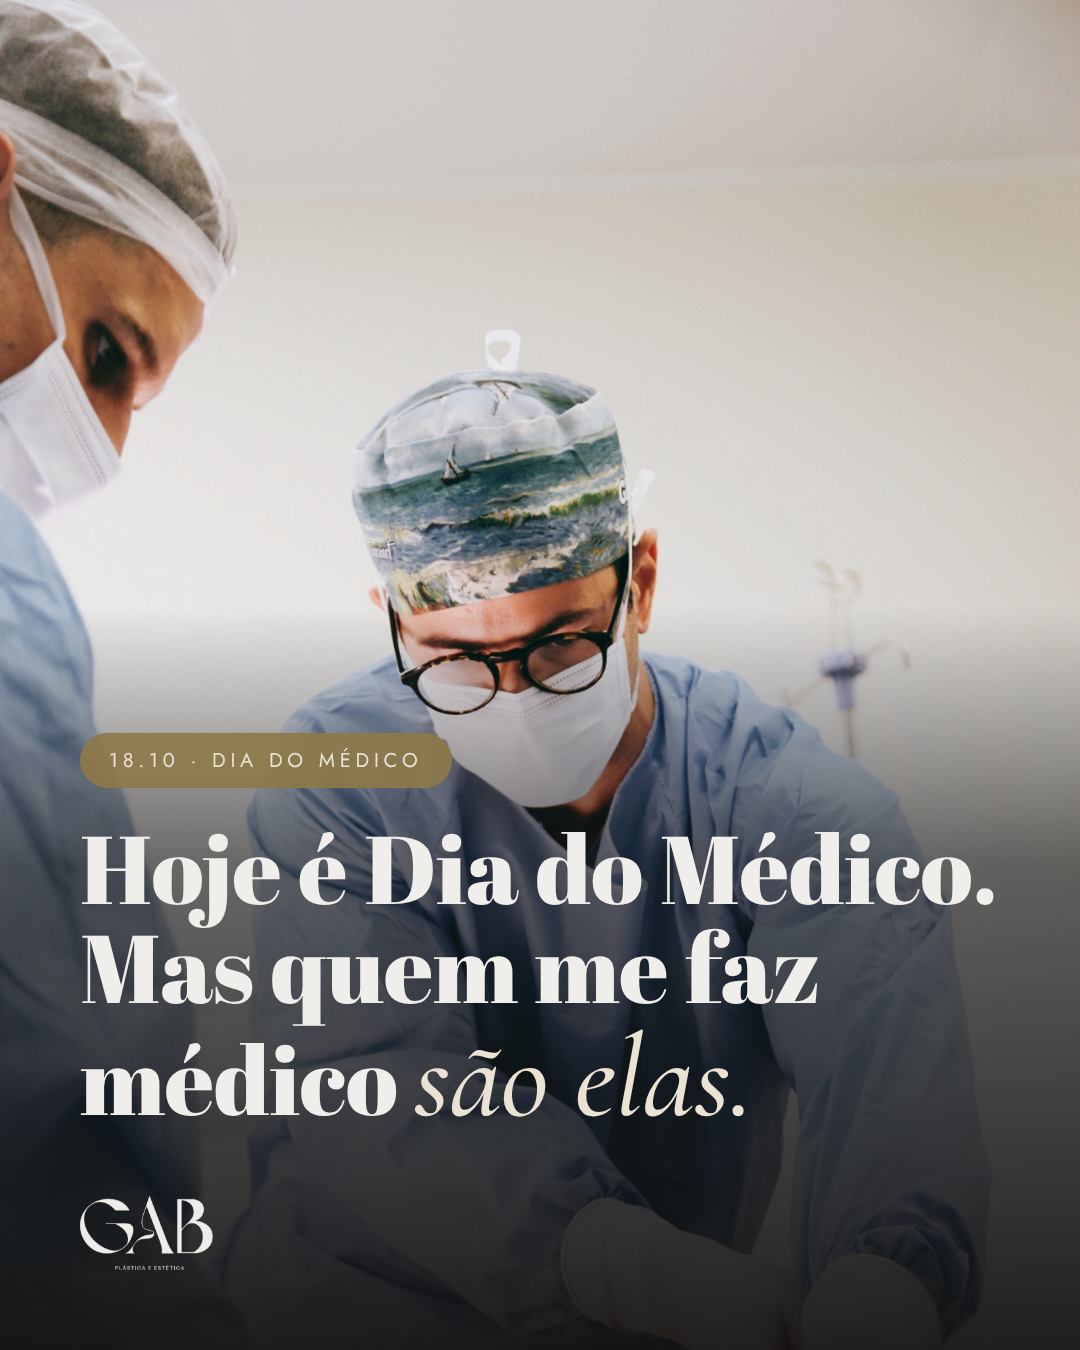
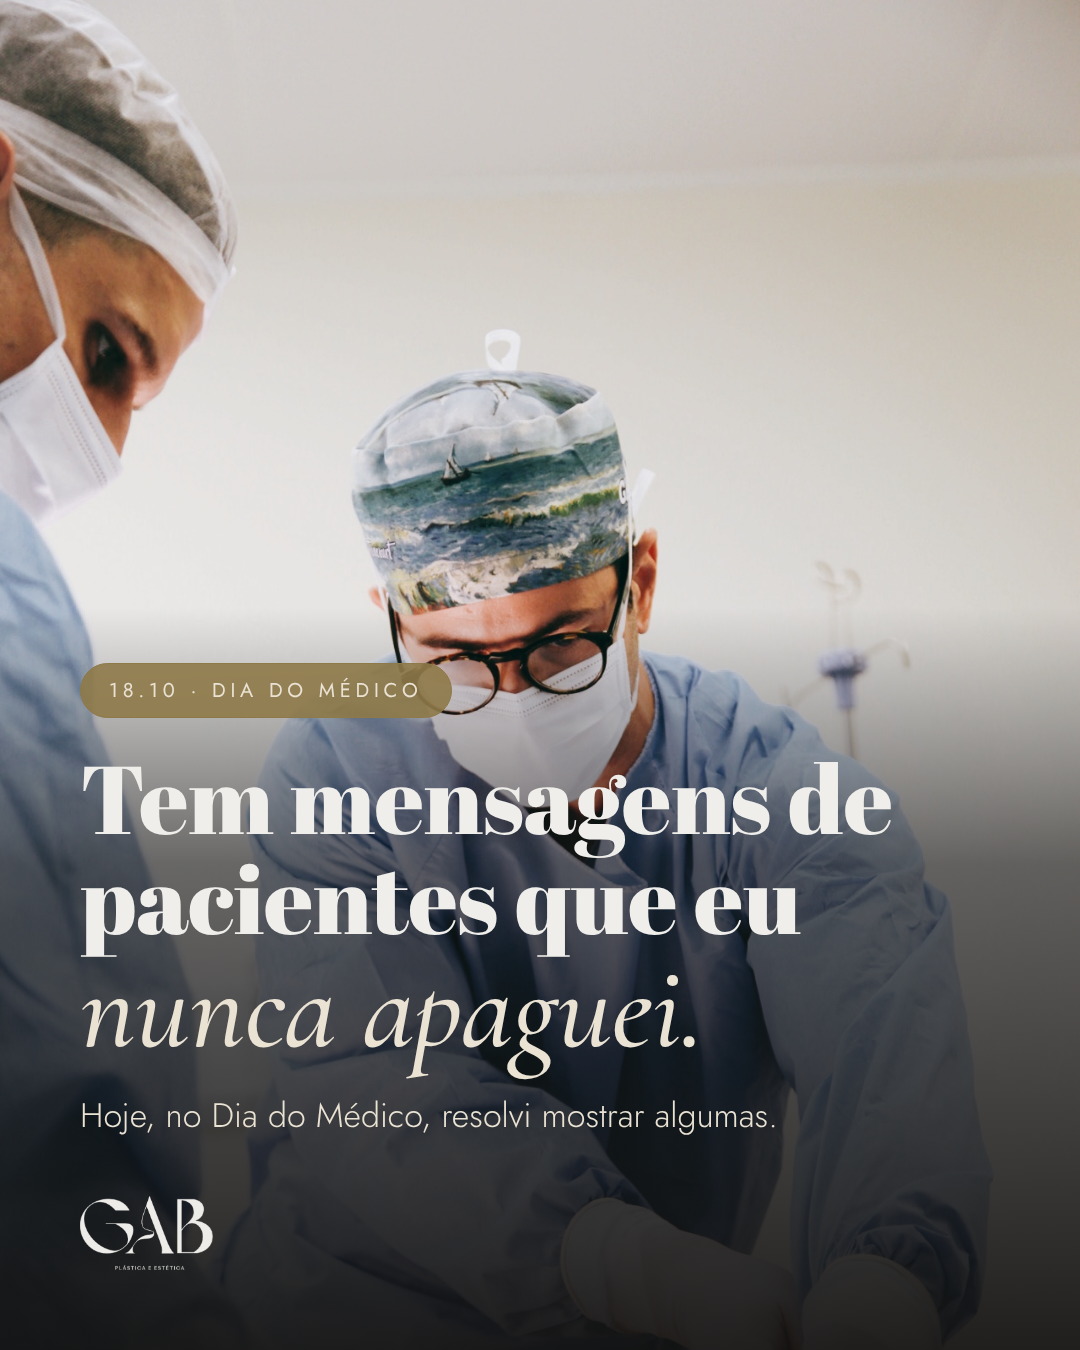
Rewrite carousel headline and closing copy
Claude-Session: https://claude.ai/code/session_01GVhh6PVXGt4EJQoc58yRio

Changed region(s): [[0.0611, 0.4667, 0.9167, 0.84]]

diff --git a/carrossel-dia-do-medico/carrossel.html b/carrossel-dia-do-medico/carrossel.html
@@ -84,7 +84,8 @@
   <div class="photo"></div><div class="shade"></div>
   <div class="content">
     <span class="pill" style="color:var(--beige);background:rgba(142,121,72,.9);border-color:var(--gold)">18.10 · Dia do Médico</span>
-    <h1 class="fat" style="margin-top:30px;font-size:96px">Hoje é Dia do Médico. Mas quem me faz médico <em>são elas.</em></h1>
+    <h1 class="fat" style="margin-top:30px;font-size:96px">Tem mensagens de pacientes que eu <em>nunca apaguei.</em></h1>
+    <p class="sub" style="margin-top:22px;font-size:34px">Hoje, no Dia do Médico, resolvi mostrar algumas.</p><h1 style="display:none"></h1>
     <div class="swipe">
       <img class="logo" src="assets/logo_light.png" alt="GAB Plástica e Estética">
     </div>
@@ -96,7 +97,7 @@
   <div class="bg" style="background:var(--ink)"></div>
   
   <div class="in">
-    <div style="margin:auto 0;text-align:center"><p class="fat" style="font-size:72px;margin-bottom:60px;color:var(--off)">Algumas mensagens<br>que <span class="it" style="color:var(--gold-soft);font-size:80px">eu guardo.</span></p>
+    <div style="margin:auto 0;text-align:center"><p class="fat" style="font-size:72px;margin-bottom:60px;color:var(--off)">Elas chegam assim,<br><span class="it" style="color:var(--gold-soft);font-size:80px">no meio de um dia comum.</span></p>
       <div class="who" style="justify-content:center;margin-left:0;color:var(--stone)"><i>A</i>Paciente</div>
       <div class="bub" style="margin:0 auto;text-align:center;max-width:860px;border-radius:44px">Parabéns, Dr, pelo seu dia 👏🏼🙏🏼 Ser operada por você foi <b>uma das melhores coisas que me aconteceram nesse ano.</b></div>
       <div class="who" style="justify-content:center;margin:34px 0 14px;color:var(--stone)"><i>C</i>Paciente</div>
@@ -121,7 +122,7 @@
 <!-- 04 · CUIDADO -->
 <section class="slide beige" id="s4">
   <div style="margin:auto 0;text-align:center"><h2 class="fat" style="font-size:78px">O que mais me emociona não é o resultado.</h2>
-  <p class="it" style="font-size:46px;color:var(--gold);margin-top:14px">É como elas se sentiram cuidadas.</p>
+  <p class="it" style="font-size:46px;color:var(--gold);margin-top:14px">É saber que a pessoa se sentiu cuidada.</p>
   <div style="margin-top:80px">
     <div class="who" style="justify-content:center;margin-left:0"><i>L</i>Paciente</div>
     <div class="bub" style="box-shadow:0 14px 40px rgba(18,17,16,.12);background:#fff;margin:0 auto;text-align:center;max-width:860px;border-radius:44px">Já fiz várias cirurgias plásticas e <b>nunca nenhum cirurgião foi tão atencioso e compreensível.</b> 🙏🏼</div>
@@ -135,7 +136,7 @@
   <div style="margin:auto 0">
     <p class="caps">Feliz Dia do Médico</p>
     <h2 class="fat" style="font-size:96px;margin-top:26px">Cada mensagem dessas me lembra por que eu escolhi a medicina.</h2>
-        <p class="it" style="font-size:52px;line-height:1.2;color:var(--off);margin-top:40px">Obrigado por confiarem em mim.<br>Vocês me fazem médico todos os dias.</p>
+        <p class="it" style="font-size:52px;line-height:1.2;color:var(--off);margin-top:40px">Obrigado a cada paciente<br>que confiou em mim.</p>
   </div>
   <div class="foot" style="">
     <img class="logo" src="assets/logo_dark.png" alt="GAB Plástica e Estética">
